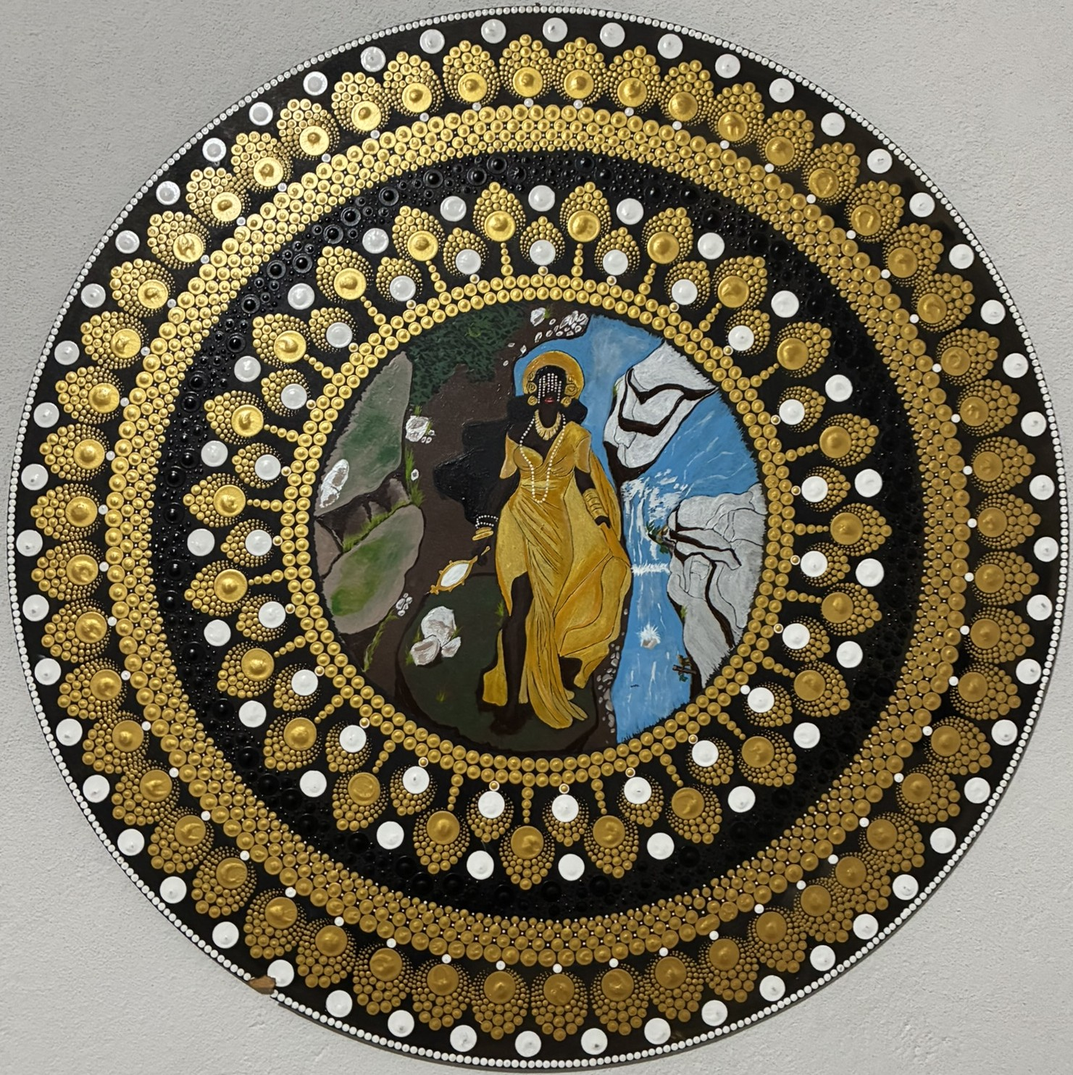
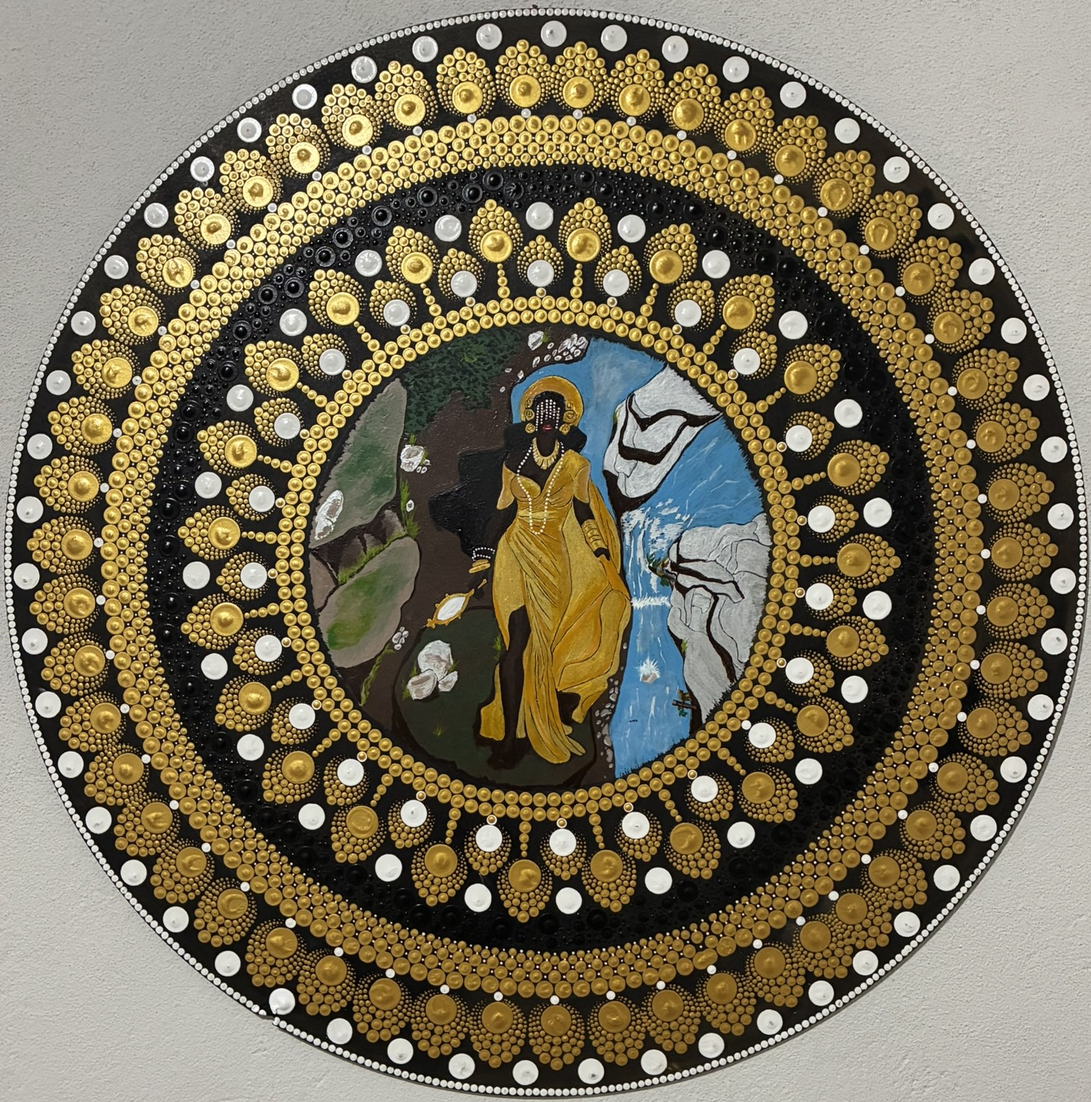
Novas obras adicionadas, alterações na descrição das obras e direito autoral.

diff --git a/src/App.tsx b/src/App.tsx
@@ -7,11 +7,14 @@ import Giovanni from "./assets/img/foto.jpg"
 import Cavalo from "./assets/img/cavalo.JPEG"
 import Canario from "./assets/img/canarinho.JPEG"
 import Aguia from "./assets/img/aguia.JPEG"
+import Ganesha from "./assets/img/ganesha.JPEG"
 import NSAparecida from "./assets/img/nsaparecida.JPEG"
 import Iemanja from "./assets/img/iemanja.JPEG"
 import MariaMadalena from "./assets/img/mariamadalena.JPEG"
 import Oxum from "./assets/img/oxum.JPEG"
 import TrancaRuas from "./assets/img/trancaruas.JPEG"
+import MobiFraternidadeBranca from "./assets/img/mobifraternidadebranca.JPG"
+import MobiOrixas from "./assets/img/mobiorixas.JPG"
 
 interface Comentario {
   id: string | number;
@@ -27,6 +30,7 @@ interface Arte {
   src: string;
   alt: string;
   descricao: string;
+  preco: number;
   vendido: boolean;
 }
 
@@ -35,68 +39,98 @@ const galeriaArtes: Arte[] = [
     id: 'cavalo', 
     src: Cavalo, 
     alt: 'Cavalo A4', 
-    descricao: 'Arte realista de um cavalo focando nos detalhes minuciosos e força da expressão.',
+    descricao: 'É um símbolo de liberdade, força e poder. É visto como o ser que habita a fronteira entre o físico e o invisível. É associado a forças instintivas da psique, representando a energia bruta que pode ser guiada, mas nunca domada.',
+    preco: 250.00, 
     vendido: false 
   },
   { 
     id: 'canario', 
     src: Canario, 
     alt: 'Canarinho A4', 
-    descricao: 'Arte realista de um canarinho focando nos detalhes minuciosos das penas e cores vibrantes.',
+    descricao: 'O Canarinho é um símbolo de alegria, liberdade e harmonia. Representa criatividade, expressão artística e comunicação, tráz boa sorte e felicidade. Busque a expressão autêntica e harmoniosa do ser!',
+    preco: 250.00,
     vendido: false 
   },
   { 
     id: 'aguia', 
     src: Aguia, 
     alt: 'Águia A3', 
-    descricao: 'Desenho detalhado de uma águia imperial demonstrando toda a sua imponência e olhar atento.',
+    descricao: 'A Águia é um símbolo de força e soberania, arquétipo de coragem, domínio e poder interior. Liberdade e propósito elevado, representa a alma que busca alturas maiores e vive guiada por um propósito elevado. Visão espiritual e clareza, simboliza a capacidade de enxergar além do óbvio, trazendo discernimento e orientação.',
+    preco: 400.00,
     vendido: false 
+  },
+  { 
+    id: 'ganesha', 
+    src: Ganesha, 
+    alt: 'Ganesha A3', 
+    descricao: 'Ganesha é um deus Hindú, da sabedoria, do início e do fim. É venerado como o eliminador de obstáculos e o trazedor de sucesso. Representa a sabedoria e a inteligência, simbolizando o conhecimento que transcende o mundo físico.',
+    preco: 650.00,
+    vendido: true 
   },
   { 
     id: 'nsaparecida', 
     src: NSAparecida, 
     alt: 'Mandala - Nossa Senhora Aparecida 80x80cm', 
-    descricao: 'Mandala sacra dedicada a Nossa Senhora Aparecida, rica em traços circulares, detalhes em azul e rico simbolismo de fé.',
+    descricao: 'A Padroeira do nosso Brasil, intercede por todos os que a invocam por fé. Parte da identidade brasileira, representa a humildade, reconstrução interior, símbolo de esperança, "nas águas turvas do caminho, Deus sempre coloca um sinal de esperança para aqueles que tem olhos de fé para enxergar".',
+    preco: 900.00,
     vendido: false 
   },
   { 
     id: 'iemanja', 
     src: Iemanja, 
     alt: 'Mandala - Iemanjá 60x60cm', 
-    descricao: 'Mandala artística em homenagem à Rainha do Mar, com geometria harmônica em tons de azul e elementos marinhos.',
+    descricao: 'Iemanjá é a divindade do rio que deságua no mar, a rainha dos oceanos e mãe de todos os Orixás. Representa o poder progenitor feminino, é a que nos faz nascer, divindade que é maternidade universal, a mãe do Mundo. A protetora dos Marinheiros, da maternidade e fertilidade.',
+    preco: 650.00,
     vendido: false 
   },
   { 
     id: 'mariamadalena', 
     src: MariaMadalena, 
     alt: 'Mandala - Maria Madalena 60x60cm', 
-    descricao: 'Mandala com temática sacra inspirada em Maria Madalena, combinando delicadeza, equilíbrio e devoção.',
+    descricao: 'É a figura central na devoção cristã, especialmente entre as mulheres. É venerada como uma das seguidoras mais fiéis de Cristo. A devoção a Maria Madalena envolve orações e preces que buscam sua intercessão para arrependimento, perdão e renovação. Padroeira dos pecadores, arrependidos, as mulheres e as pessoas que enfrentam dificuldades em sua vida.',
+    preco: 650.00,
     vendido: false 
   },
   { 
     id: 'oxum', 
     src: Oxum, 
     alt: 'Mandala - Oxum 60x60cm', 
-    descricao: 'Mandala vibrante inspirada em Oxum, destacando geometria fluida em tons dourados e amarelos de harmonia espiritual. (Pequeno detalhe na parte inferior esquerda)',
+    descricao: '(Pequeno detalhe na parte inferior esquerda) Rainha das águas doces, dona dos rios e cachoeiras, considerada a senhora da beleza, da fertilidade, do amor, do dinheiro, da sensibilidade. Associada a riqueza espiritual e material.',
+    preco: 650.00,
     vendido: false 
   },
   { 
     id: 'trancaruas', 
     src: TrancaRuas, 
-    alt: 'Mandala - Tranca Ruas 55x55cm', 
-    descricao: 'Mandala artística e devocional dedicada a Tranca Ruas, combinando geometria sagrada, força e harmonia em tons marcantes.',
+    alt: 'Mandala - Exú Tranca Ruas 55x55cm', 
+    descricao: 'Guardião dos caminhos, protetor espiritual e mensageiro dos Orixás, ele abre ou fecha as portas na vida dos devotos, de acordo com o merecimento da pessoa. Quem está em sintonia com a verdade e busca crescimento pode contar com sua ajuda para superar obstáculos.',
+    preco: 550.00,
+    vendido: false 
+  },
+  { 
+    id: 'mobifraternidadebranca', 
+    src: MobiFraternidadeBranca, 
+    alt: 'Mobile - 7 Raios Cósmicos, a Fraternidade Branca & os 7 Chakras 120x9cm', 
+    descricao: 'Os 7 Raios Cósmicos, são as principais forças de energia espiritual que influenciam a vida na Terra, sendo transmitidos pelo Sol e outros astros. A Fraternidade Branca é uma irmandade espiritual que busca a evolução da humanidade, promovendo a paz, a harmonia e o desenvolvimento espiritual. Os Chakras são centros de energia no corpo humano, cada um associado a diferentes aspectos físicos, emocionais e espirituais. Na frente temos a representação dos 7 Raios cósmicos, eles são uma divisão das virtudes divinas para este plano. Cada um deles estão representados por um Mestre Ascencionado da Fraternidade Branca que são: Mestre Ascencionado Serapis Bey (4º Raio Branco - Pureza e Ascenção), Mestre Ascencionado Saint Germain (7º Raio Violeta - a Era da Liberdade, Transmutação e Purificação), Mestra Ascencionada Nada (6º Raio Rubi Dourado - Paz, Amor e Devoção), Mestra Ascencionada Rowena (3º Raio Rosa - Amor Divino, Delicadeza e Compreensão), Mestre Ascencionado El Morya (1º Raio Azul - Poder Divino e a Fé), Mestre Ascencionado Hilarion (5º Raio Verde - Verdade, Inteligência e Cura), Mestre Ascencionado Kuthumi (2º Raio Amarelo Dourado - Sabedoria e Compreensão). No verso temos os 7 Chakras principais, que são: Chakra Raiz (Muladhara), Chakra Sacral (Svadhisthana), Chakra do Plexo Solar (Manipura), Chakra do Coração (Anahata), Chakra da Garganta (Vishuddha), Chakra do Terceiro Olho (Ajna) e Chakra da Coroa (Sahasrara). Cada um desses chakras está associado a diferentes aspectos da vida e da consciência, e o equilíbrio entre eles é essencial para o bem-estar físico, emocional e espiritual. ',
+    preco: 650.00,
+    vendido: true 
+  },
+  { 
+    id: 'mobiorixas', 
+    src: MobiOrixas, 
+    alt: 'Mobile - Orixás & Elementos 80x10cm', 
+    descricao: 'Mobile artístico dos Orixás & Elementos, onde cada um representa um elemento da natureza, Terra: Oxóssi, Fogo: Xangô, Água: Iemanjá, Ar: Iansã, ideal para decoração espiritual e harmonia do ambiente. Terra é o elemento que nos conecta com a realidade, Fogo é o elemento da transformação e ação, Água é o elemento da intuição e emoções, Ar é o elemento da comunicação e intelecto. Oxóssi é o Orixá da caça, da fartura e da prosperidade, Xangô é o Orixá da justiça, do equilíbrio e da força, Iemanjá é a Orixá das águas, da maternidade e da proteção, Iansã é a Orixá dos ventos, das tempestades e da coragem.',
+    preco: 500.00,
     vendido: false 
   },
 ]
 
-// DEFINA A SUA SENHA DE ADMINISTRADOR AQUI:
 const SENHA_ADMIN = "19932403";
 
 function App() {
   const [imagemSelecionada, setImagemSelecionada] = useState<Arte | null>(null);
   const [filtroAtivo, setFiltroAtivo] = useState<'todos' | 'mandalas' | 'desenhos'>('todos');
 
-  // Estado para controlar se o Admin está ativado neste navegador
   const [isAdmin, setIsAdmin] = useState<boolean>(() => {
     return localStorage.getItem('giovanni_is_admin') === 'true';
   });
@@ -276,7 +310,7 @@ function App() {
 
   const compartilharArte = (arte: Arte) => {
     const linkEspecifico = `https://giovittorazze.github.io/portfolio/?obra=${arte.id}`;
-    const textoCompartilhamento = `🎨 Confira a obra "${arte.alt}" de Giovanni Vittorazze!\n\n"${arte.descricao}"\n\nVeja os detalhes e deixe seu comentário aqui: ${linkEspecifico}`;
+    const textoCompartilhamento = `🎨 Confira a obra "${arte.alt}" de Giovanni Vittorazze por R$ ${arte.preco.toFixed(2)}!\n\n"${arte.descricao}"\n\nVeja os detalhes e deixe seu comentário aqui: ${linkEspecifico}`;
 
     if (navigator.share) {
       navigator.share({
@@ -368,7 +402,14 @@ function App() {
                     </div>
 
                     <div className="px-4 py-3 bg-white flex items-center justify-between border-t border-gray-200">
-                      <span className="text-sm font-bold text-gray-800">{arte.alt}</span>
+                      <div>
+                        <span className="text-sm font-bold block text-gray-800">{arte.alt}</span>
+                        {!arte.vendido && (
+                          <span className="text-xs font-bold text-emerald-600">
+                            R$ {arte.preco.toLocaleString('pt-BR', { minimumFractionDigits: 2 })}
+                          </span>
+                        )}
+                      </div>
                       <div className="flex items-center gap-2">
                         <span className="text-xs text-gray-500">💬 {totalComentarios}</span>
                         <button 
@@ -406,7 +447,9 @@ function App() {
 
           <div className="text-xs sm:text-sm text-gray-700 leading-relaxed flex flex-col gap-3">
             <p>Eu sou um aprendiz da arte, amo a arte realista mas estou sempre buscando aprender novas técnicas para expandir minha criatividade.</p>
-            <p>Na pintura, eu faço mandalas de caráter religioso, pois é o que mais combina com o tema! Deixo aqui meu portfólio para apreciação, mas também faço por encomenda, chama no WhatsApp.</p>
+            <p>Na pintura, eu faço mandalas de caráter religioso, pois é o que mais combina com o tema!</p>
+            <p>A arte é considerada a expressão mais pura do espírito. O contato com a arte pode despertar sentimentos e emoções profundas, trazendo consciência e sabedoria! Decore seu interior com peças únicas e significativas.</p>
+            <p>Deixo aqui meu portfólio para apreciação, mas também faço por encomenda, chama no WhatsApp.</p>
           </div>
 
           <div className="mt-6 lg:mt-auto pt-4 border-t border-gray-400 text-center flex flex-col gap-2">
@@ -428,14 +471,19 @@ function App() {
               </a>
             </div>
 
-            {/* Botão sutil de Painel de Administrador */}
-            <div className="pt-3">
+            {/* Botão sutil de Painel de Administrador e Copyright */}
+            <div className="pt-3 flex flex-col gap-2">
               <button 
                 onClick={toggleAdmin}
                 className="text-[10px] text-gray-500 hover:text-gray-700 underline cursor-pointer"
               >
                 {isAdmin ? '🔓 Desativar Modo Admin' : '🔒 Áreas do Artista'}
               </button>
+
+              <div className="text-[10px] text-gray-600 pt-2 border-t border-gray-300 leading-tight">
+                &copy; {new Date().getFullYear()} Giovanni Vittorazze. <br />
+                Obras únicas e autorais. Todos os direitos reservados.
+              </div>
             </div>
           </div>
         </aside>
@@ -476,7 +524,14 @@ function App() {
                 
                 <div className="p-4 bg-white flex flex-col gap-3 border-b">
                   <div className="flex items-center justify-between">
-                    <span className="font-bold text-gray-800 text-base">{imagemSelecionada.alt}</span>
+                    <div>
+                      <span className="font-bold text-gray-800 text-base block">{imagemSelecionada.alt}</span>
+                      {!imagemSelecionada.vendido && (
+                        <span className="text-sm font-extrabold text-emerald-600">
+                          R$ {imagemSelecionada.preco.toLocaleString('pt-BR', { minimumFractionDigits: 2 })}
+                        </span>
+                      )}
+                    </div>
                     <button 
                       onClick={() => toggleCurtir(imagemSelecionada.id)}
                       className={`flex items-center gap-2 px-4 py-2 rounded-full transition font-bold cursor-pointer active:scale-95 ${
@@ -509,7 +564,6 @@ function App() {
                     ) : (
                       listaComentarios.map((c) => {
                         const souDonoDoComentario = meusComentariosIds.includes(c.id);
-                        // O botão de deletar só aparece se for o próprio criador OU se o Modo Admin estiver ativado
                         const podeDeletar = souDonoDoComentario || isAdmin;
 
                         return (
